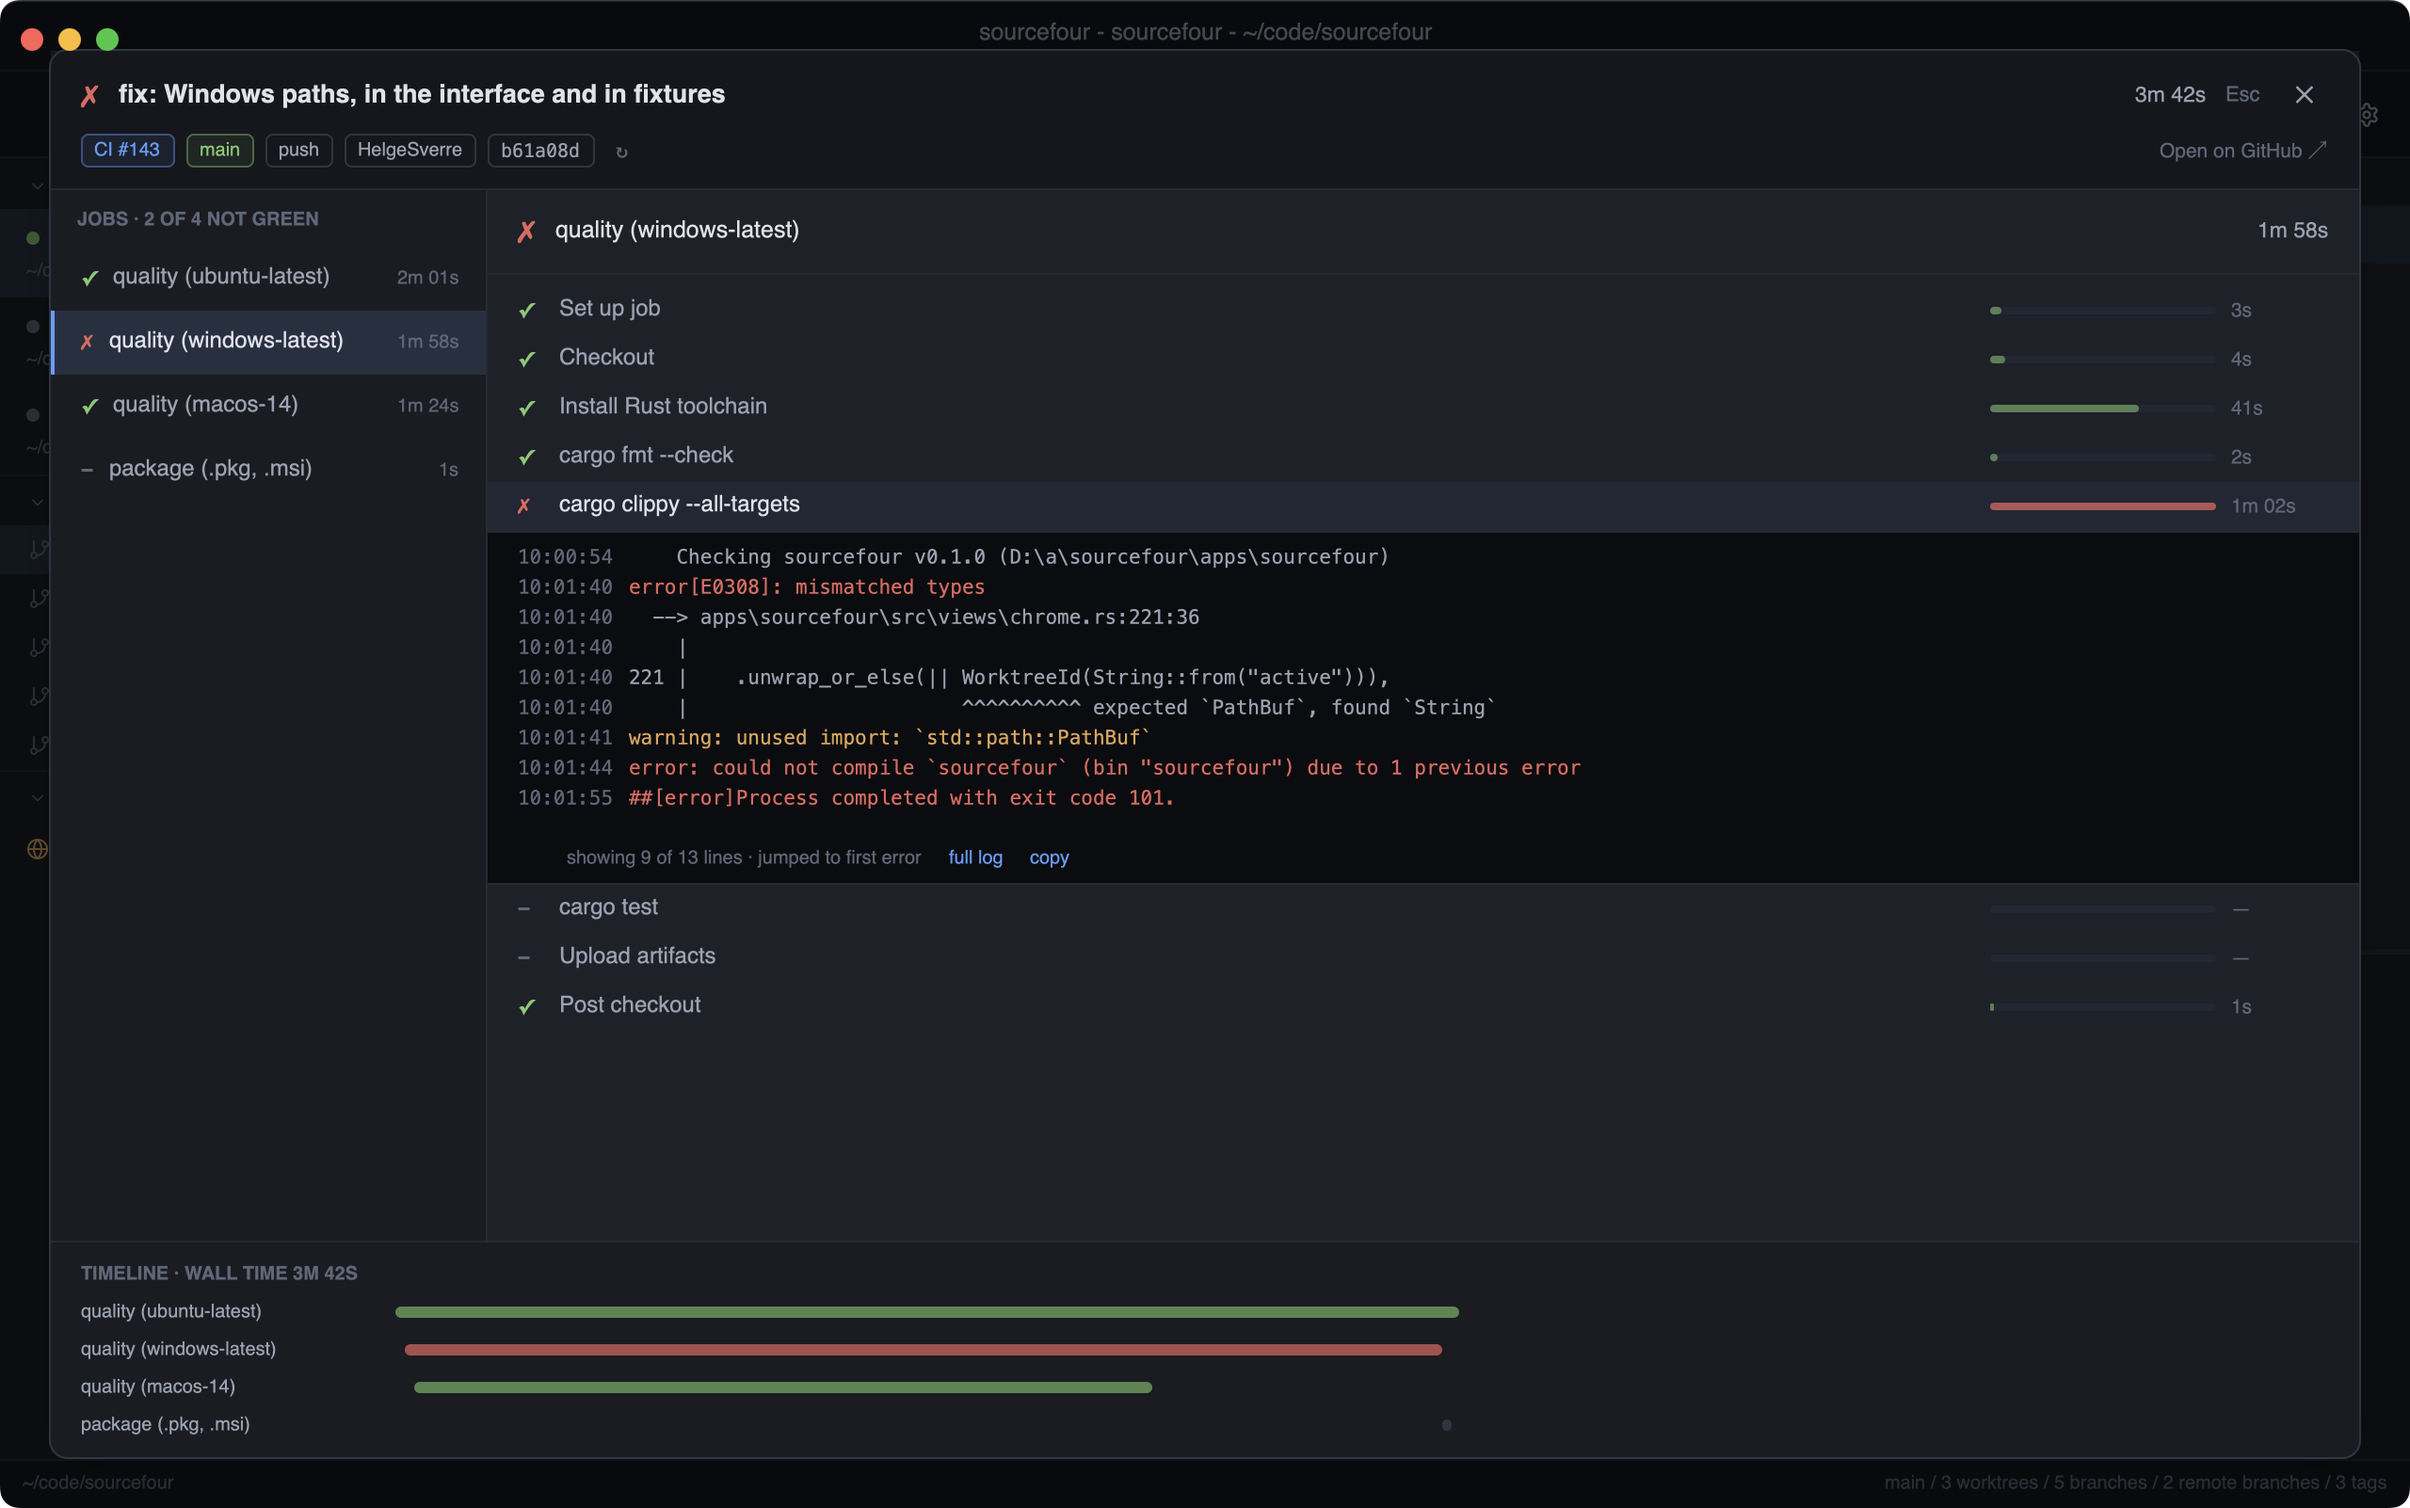
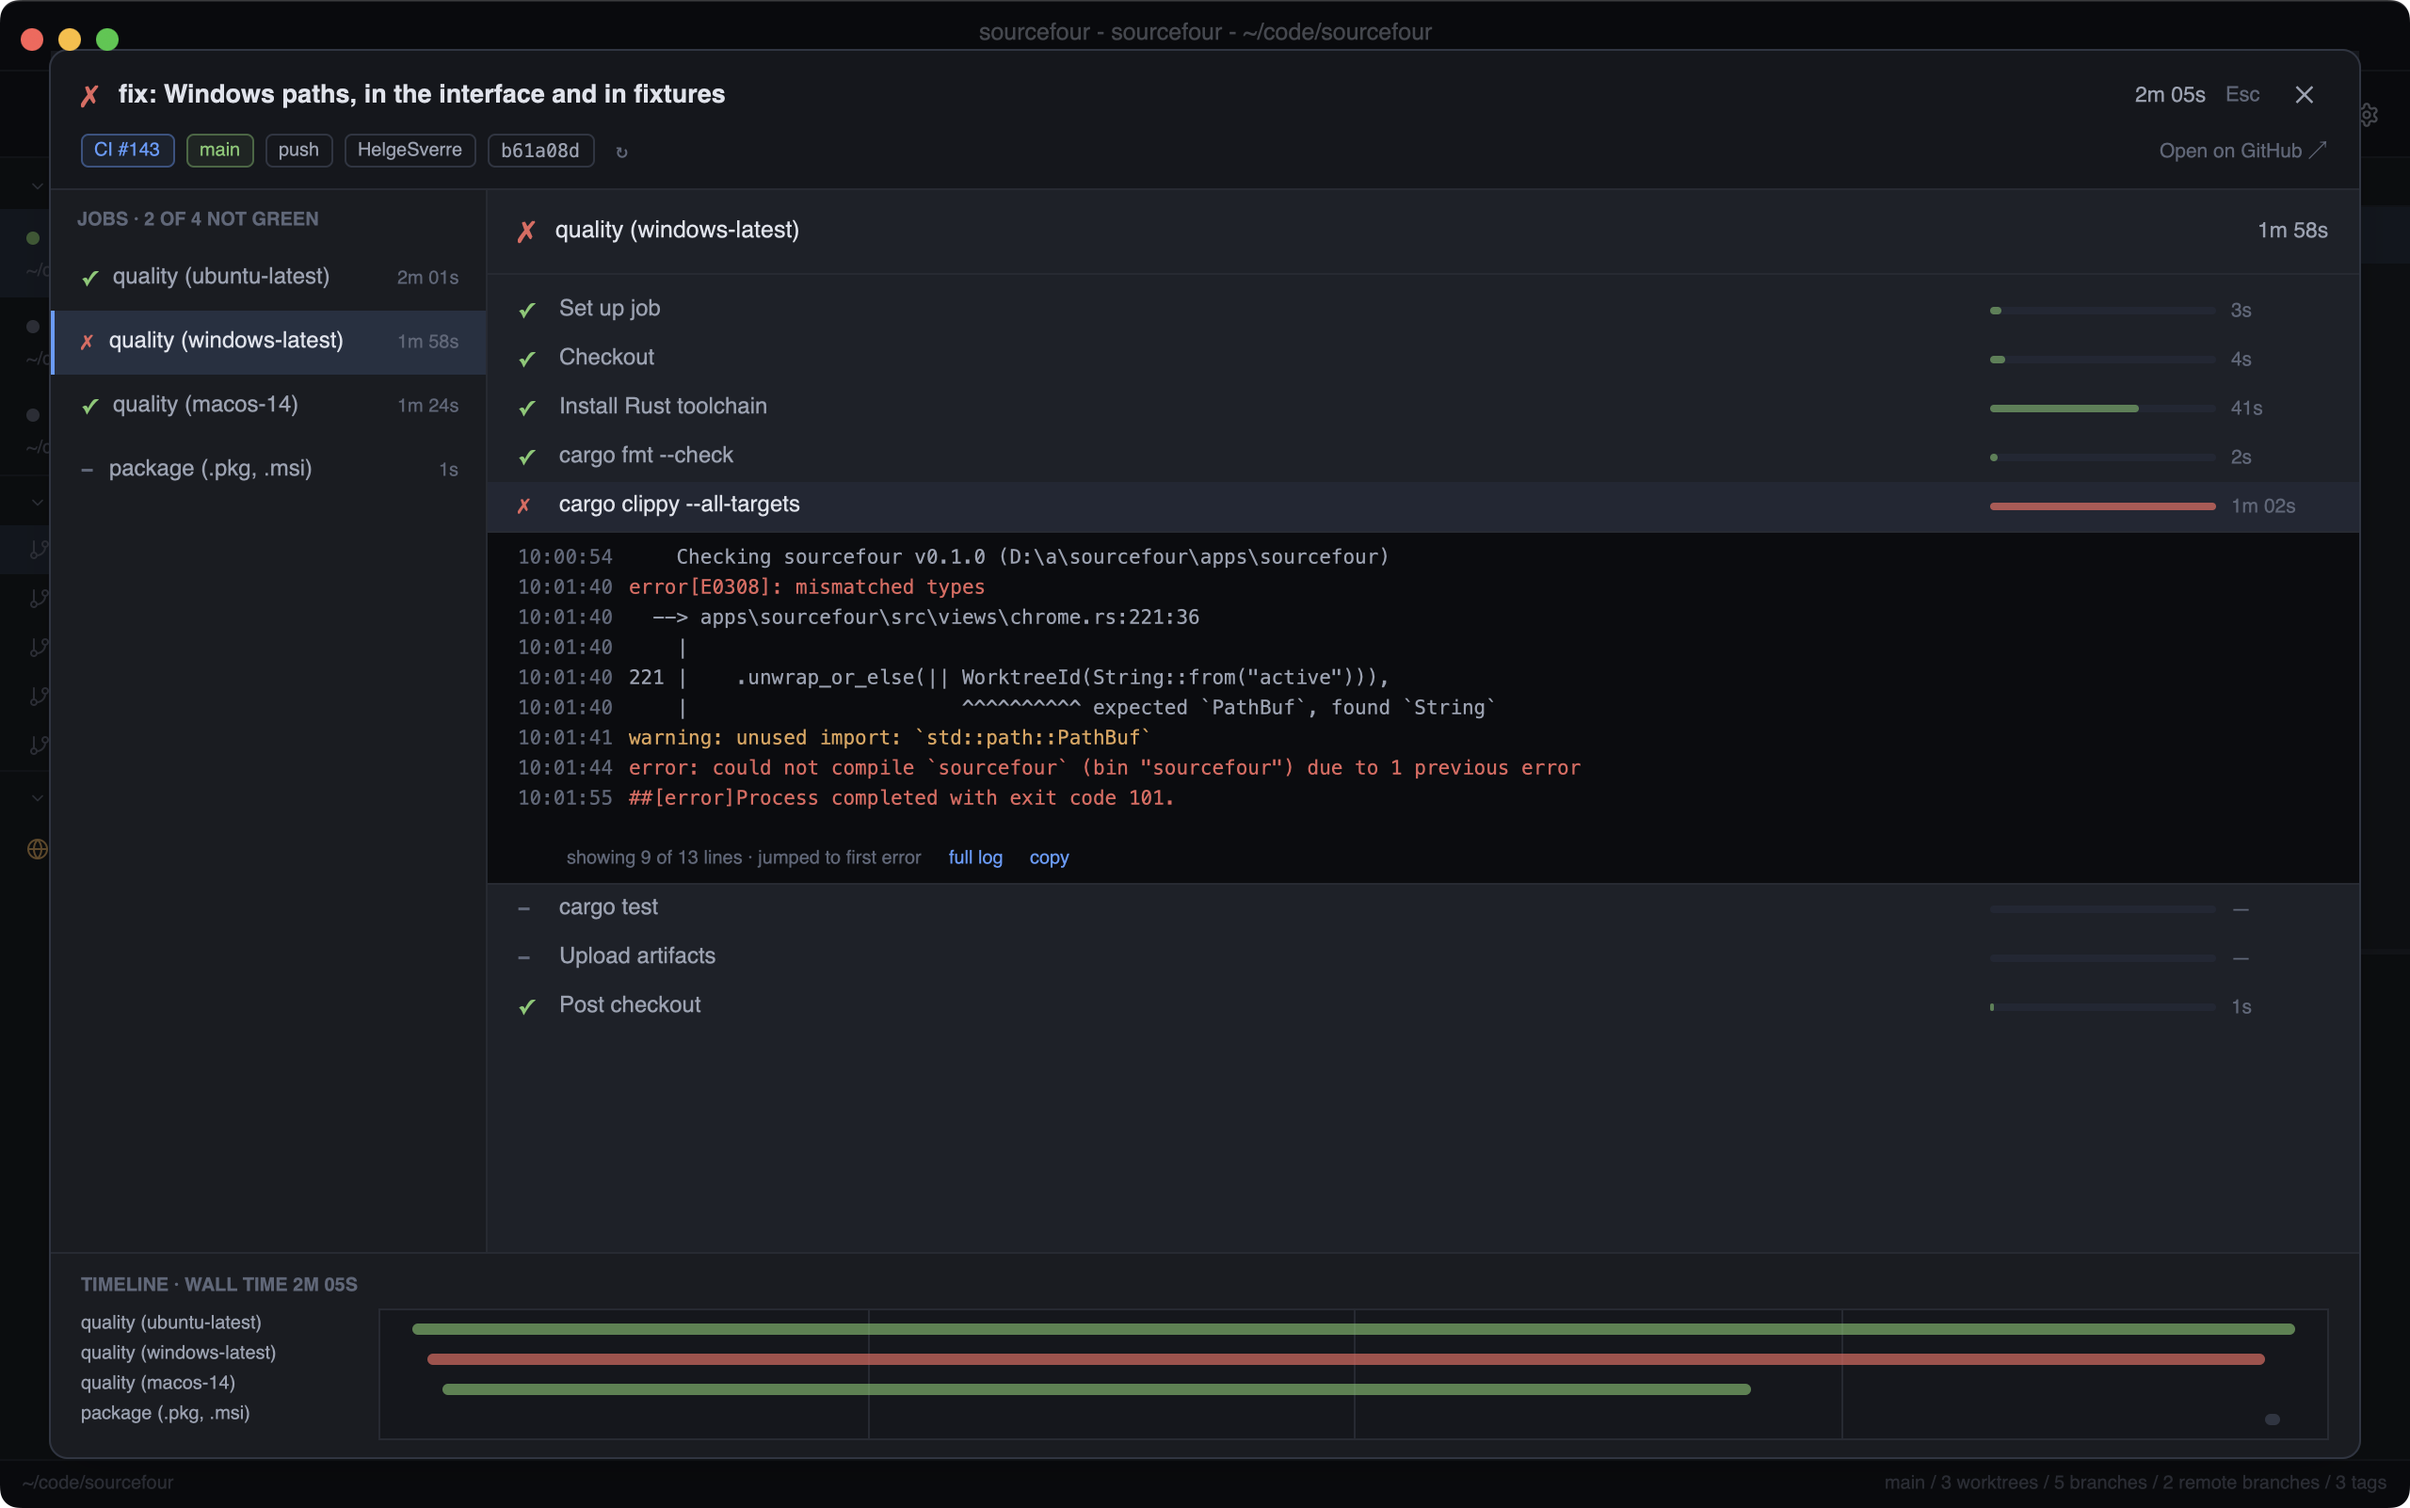
polish: the timeline is its own ruled surface
The bar area gets a slightly darker framed background with quarter-mark
ruler lines, so the wall-clock plot reads as a distinct region; job
names sit outside it. The demo run's wall time now ends with its last
job instead of leaving dead axis.

Changed region(s): [[0.0312, 0.8427, 0.9688, 0.9675]]

diff --git a/apps/sourcefour/src/views/actions.rs b/apps/sourcefour/src/views/actions.rs
@@ -197,7 +197,7 @@ fn demo_run() -> WorkflowRun {
         sha: String::from("b61a08d2f4c"),
         status: CheckStatus::Completed(CheckConclusion::Failure),
         started_at: Some(DEMO_BASE),
-        completed_at: Some(DEMO_BASE + 222),
+        completed_at: Some(DEMO_BASE + 125),
         html_url: String::new(),
     }
 }
@@ -1303,52 +1303,78 @@ impl SourcefourWindow {
                         fmt_duration(duration_of(run_start, run_end)).to_uppercase()
                     )),
             )
-            .children(jobs.iter().map(|job| {
-                let offset = duration_of(run_start, job.started_at).unwrap_or(0);
-                let length = elapsed_of(job.started_at, job.completed_at, now).unwrap_or(0);
-                #[expect(clippy::cast_precision_loss, reason = "display fractions")]
-                let (left, width) = (
-                    (offset as f32 / wall as f32).clamp(0.0, 0.98),
-                    (length as f32 / wall as f32).clamp(0.005, 1.0),
-                );
+            .child(
                 div()
-                    .h(px(16.0))
                     .flex()
-                    .items_center()
                     .gap(px(8.0))
-                    .child(
-                        div()
-                            .w(px(150.0))
-                            .flex_none()
-                            .overflow_hidden()
-                            .text_ellipsis()
-                            .whitespace_nowrap()
-                            .text_size(px(10.0))
-                            .text_color(self.theme.text_secondary)
-                            .child(job.name.clone()),
-                    )
-                    .child(
-                        div().flex_1().relative().h(px(8.0)).child(
+                    .child(div().w(px(150.0)).flex_none().flex().flex_col().children(
+                        jobs.iter().map(|job| {
                             div()
-                                .absolute()
-                                .top(px(1.0))
-                                .left(gpui::relative(left))
-                                .w(gpui::relative(width))
-                                .h(px(6.0))
-                                .rounded(px(3.0))
-                                .bg(match job.status {
-                                    CheckStatus::Completed(CheckConclusion::Failure) => {
-                                        self.theme.red.opacity(0.7)
-                                    }
-                                    CheckStatus::Completed(CheckConclusion::Success) => {
-                                        self.theme.green.opacity(0.6)
-                                    }
-                                    CheckStatus::InProgress => self.theme.orange.opacity(0.7),
-                                    _ => self.theme.border_strong,
-                                }),
-                        ),
-                    )
-            }))
+                                .h(px(16.0))
+                                .flex()
+                                .items_center()
+                                .overflow_hidden()
+                                .text_ellipsis()
+                                .whitespace_nowrap()
+                                .text_size(px(10.0))
+                                .text_color(self.theme.text_secondary)
+                                .child(job.name.clone())
+                        }),
+                    ))
+                    .child(
+                        // The plot itself: a slightly darker ruled surface,
+                        // so the time axis reads as its own area.
+                        div()
+                            .flex_1()
+                            .relative()
+                            .border_1()
+                            .border_color(self.theme.border)
+                            .bg(gpui::black().opacity(0.18))
+                            .children([0.25_f32, 0.5, 0.75].map(|fraction| {
+                                div()
+                                    .absolute()
+                                    .top_0()
+                                    .bottom_0()
+                                    .left(gpui::relative(fraction))
+                                    .w(px(1.0))
+                                    .bg(self.theme.border)
+                            }))
+                            .child(
+                                div().flex().flex_col().py(px(2.0)).children(
+                                    jobs.iter()
+                                        .map(|job| self.waterfall_bar(job, run_start, wall, now)),
+                                ),
+                            ),
+                    ),
+            )
+    }
+
+    /// One job's bar on the shared wall-clock axis.
+    fn waterfall_bar(&self, job: &WorkflowJob, run_start: Option<i64>, wall: i64, now: i64) -> Div {
+        let offset = duration_of(run_start, job.started_at).unwrap_or(0);
+        let length = elapsed_of(job.started_at, job.completed_at, now).unwrap_or(0);
+        #[expect(clippy::cast_precision_loss, reason = "display fractions")]
+        let (left, width) = (
+            (offset as f32 / wall as f32).clamp(0.0, 0.98),
+            (length as f32 / wall as f32).clamp(0.005, 1.0),
+        );
+        div().h(px(16.0)).relative().child(
+            div()
+                .absolute()
+                .top(px(5.0))
+                .left(gpui::relative(left))
+                .w(gpui::relative(width))
+                .h(px(6.0))
+                .rounded(px(3.0))
+                .bg(match job.status {
+                    CheckStatus::Completed(CheckConclusion::Failure) => self.theme.red.opacity(0.7),
+                    CheckStatus::Completed(CheckConclusion::Success) => {
+                        self.theme.green.opacity(0.6)
+                    }
+                    CheckStatus::InProgress => self.theme.orange.opacity(0.7),
+                    _ => self.theme.border_strong,
+                }),
+        )
     }
 }
 
